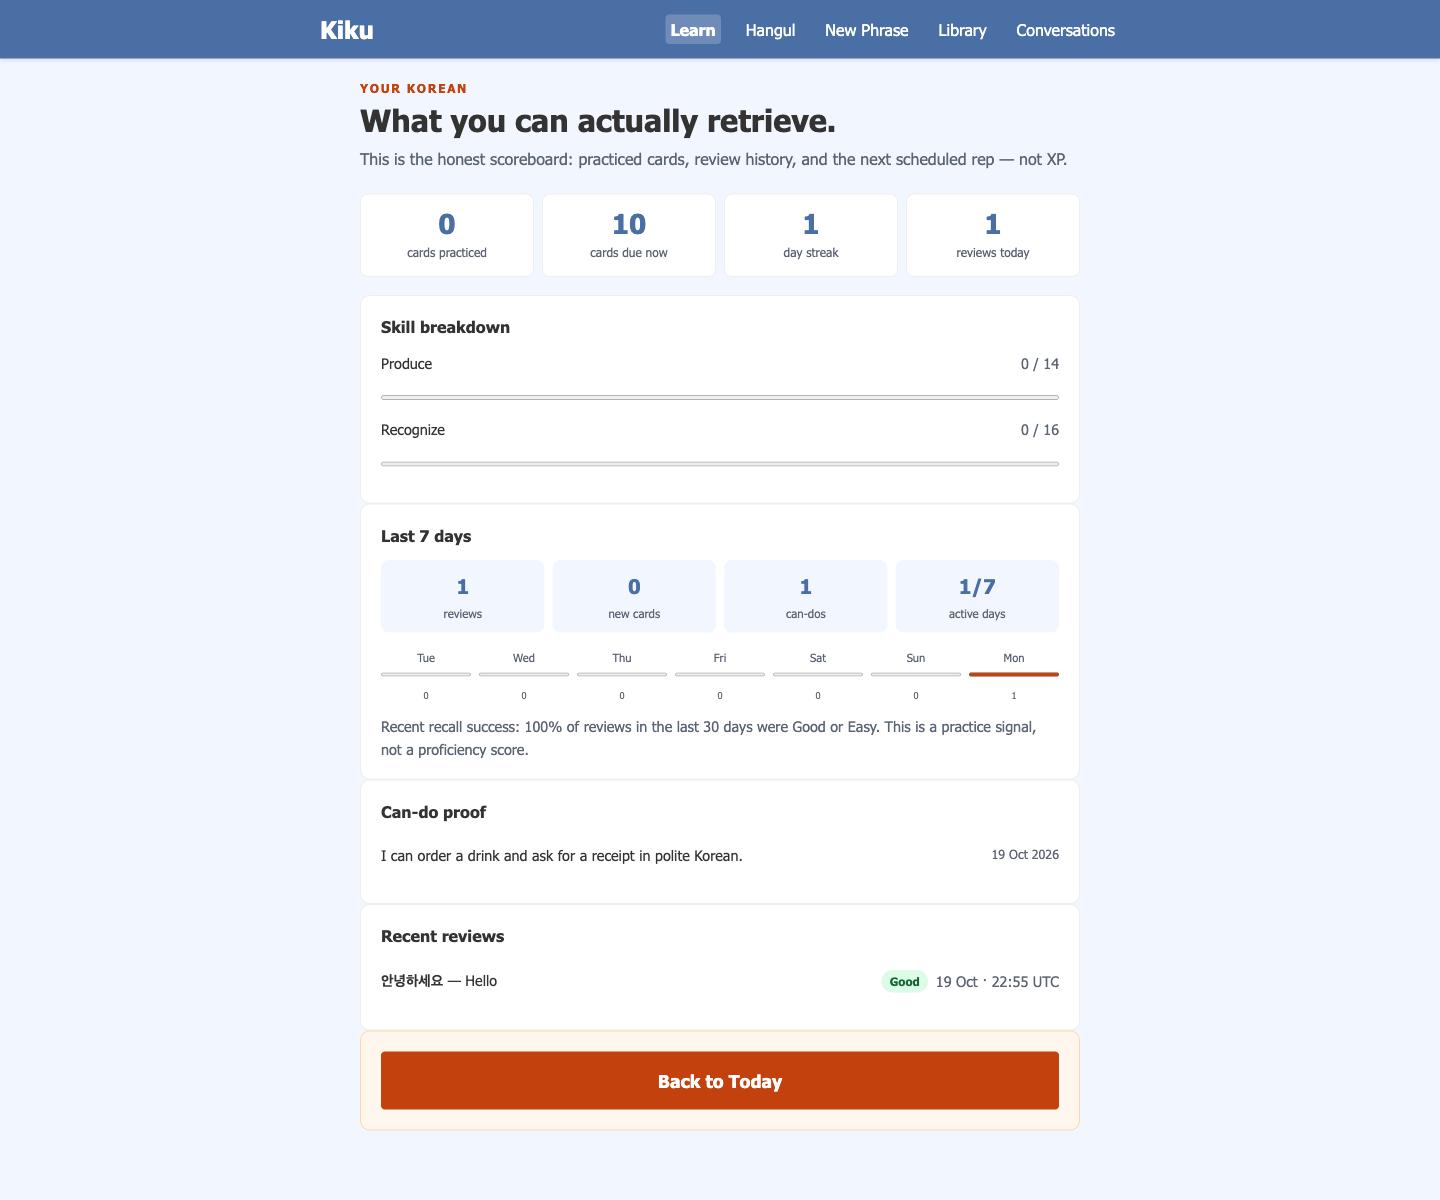
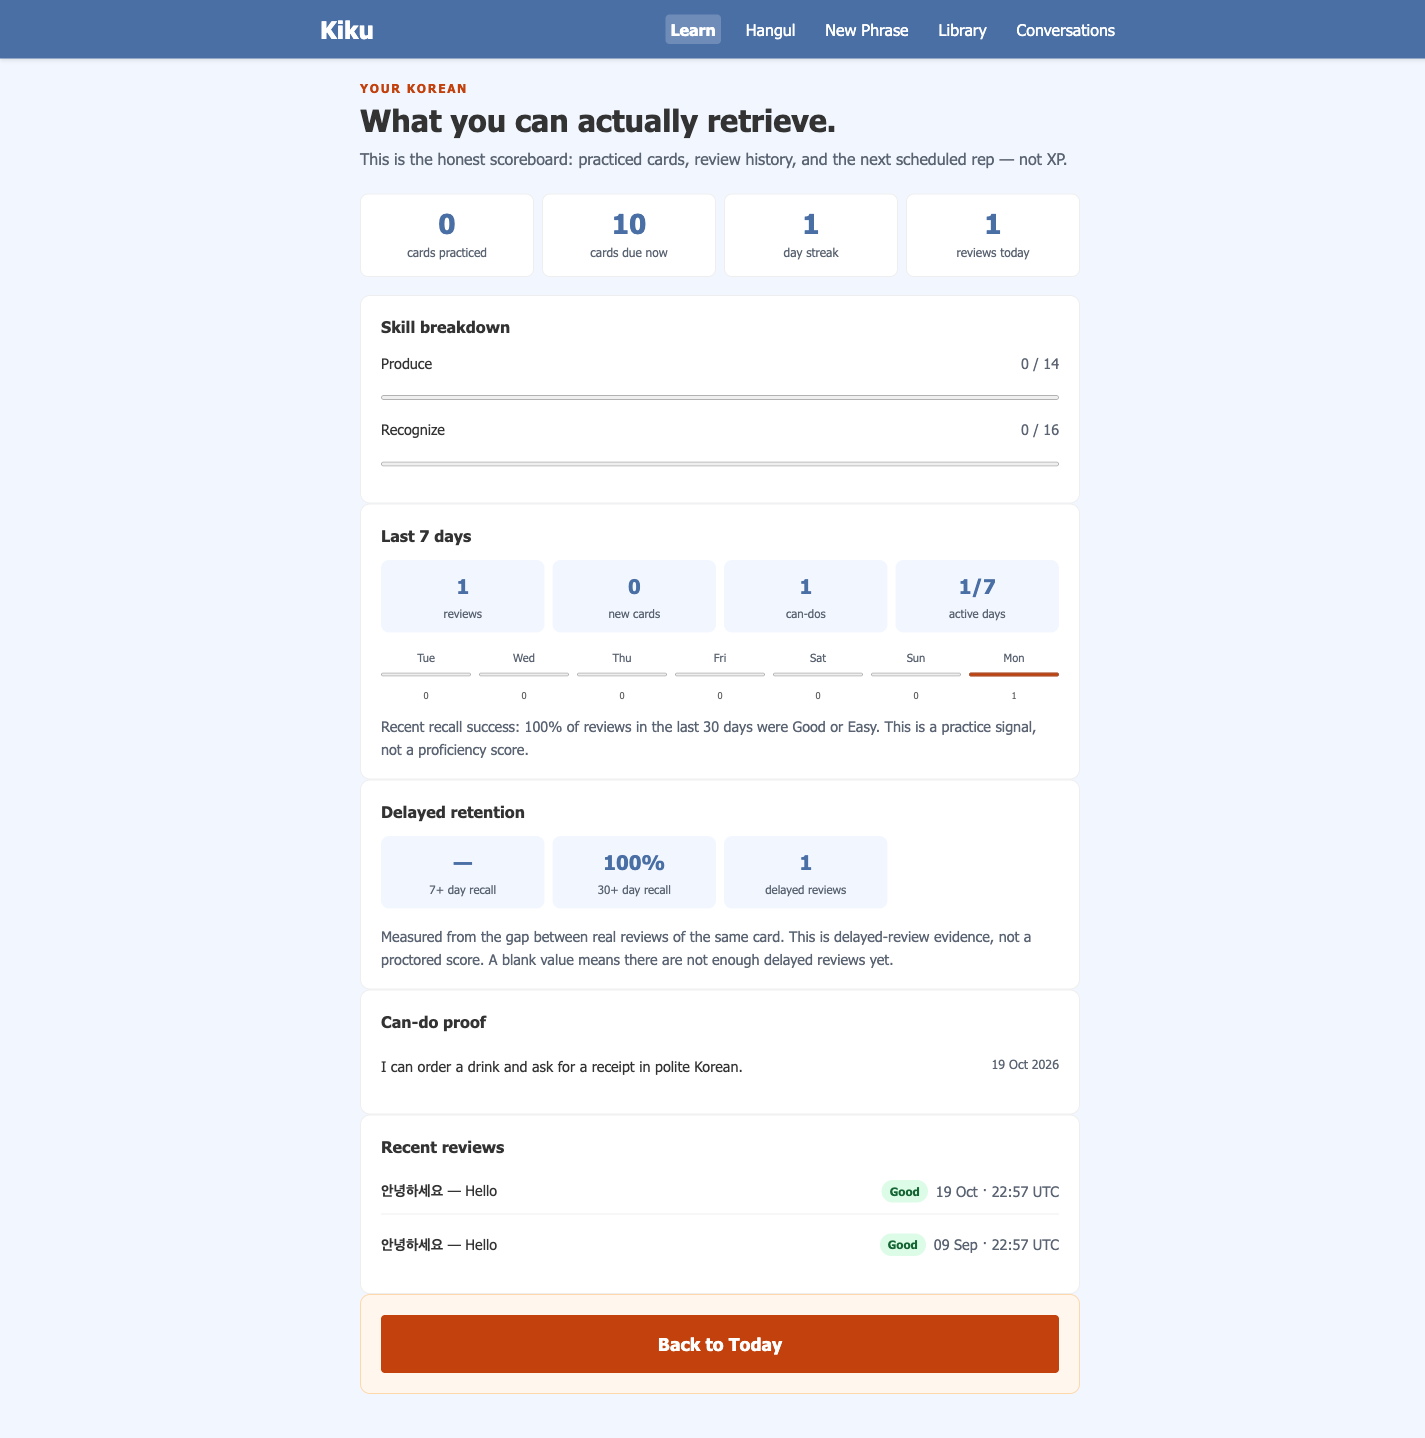
feat: add delayed-retention signal
Progress now reports 7+ day and 30+ day recall from the actual gap between reviews of the same card, with sample sizes and explicit copy that it is delayed-review evidence, not a proctored score.

This replaces the proxy-only recall view with a real retention signal. Adds tests and updates docs/screenshots. 178 tests pass.

diff --git a/app/templates/learn_progress.html b/app/templates/learn_progress.html
@@ -80,6 +80,29 @@
     {% endif %}
   </section>
 
+  <section class="learn-how" aria-labelledby="retention-heading">
+    <h3 id="retention-heading">Delayed retention</h3>
+    <div class="week-stats">
+      <div>
+        <b>{% if retention.day7.rate is not none %}{{ (retention.day7.rate * 100) | round | int }}%{% else %}—{% endif %}</b>
+        <span>7+ day recall</span>
+      </div>
+      <div>
+        <b>{% if retention.day30.rate is not none %}{{ (retention.day30.rate * 100) | round | int }}%{% else %}—{% endif %}</b>
+        <span>30+ day recall</span>
+      </div>
+      <div>
+        <b>{{ retention.total_delayed }}</b>
+        <span>delayed reviews</span>
+      </div>
+    </div>
+    <p class="learn-meta">
+      Measured from the gap between real reviews of the same card. This is
+      delayed-review evidence, not a proctored score. A blank value means there
+      are not enough delayed reviews yet.
+    </p>
+  </section>
+
   <section class="learn-how" aria-labelledby="can-do-heading">
     <h3 id="can-do-heading">Can-do proof</h3>
     {% if can_dos %}

diff --git a/tests/test_weekly.py b/tests/test_weekly.py
@@ -3,7 +3,7 @@
 from datetime import UTC, datetime, timedelta
 
 from app import db
-from app.learning.analytics import weekly_recap
+from app.learning.analytics import retention_signal, weekly_recap
 from app.learning.scheduler import new_review_card
 from app.learning.service import get_or_create_local_user
 from app.models import CanDoArtifact, Item, ReviewCard, ReviewLog
@@ -62,6 +62,38 @@ def test_weekly_recap_counts_reviews_days_and_recall(app):
         assert recap["has_data"] is True
 
 
+def test_retention_signal_uses_real_review_gaps(app):
+    now = datetime(2026, 10, 19, 12, 0, tzinfo=UTC)
+    with app.app_context():
+        user = get_or_create_local_user()
+        item = Item(
+            item_type="lexeme",
+            korean="테스트",
+            english="test",
+            level=1,
+            default_skill="recognize",
+        )
+        db.session.add(item)
+        db.session.commit()
+        card = new_review_card(user.id, item.id, "recognize")
+        db.session.add(card)
+        db.session.commit()
+
+        _log(user, card, now - timedelta(days=50), rating=3)
+        _log(user, card, now - timedelta(days=42), rating=1)
+        _log(user, card, now - timedelta(days=12), rating=3)
+        _log(user, card, now, rating=3)
+        db.session.commit()
+
+        signal = retention_signal(user.id)
+
+        assert signal["day7"]["n"] == 2
+        assert signal["day7"]["rate"] == 0.5
+        assert signal["day30"]["n"] == 1
+        assert signal["day30"]["rate"] == 1.0
+        assert signal["total_delayed"] == 3
+
+
 def test_progress_and_today_show_weekly_recap(client, app):
     now = datetime.now(UTC)
     client.get("/learn")
@@ -74,6 +106,8 @@ def test_progress_and_today_show_weekly_recap(client, app):
     progress = client.get("/learn/progress")
     assert b"Last 7 days" in progress.data
     assert b"Recent recall success" in progress.data
+    assert b"Delayed retention" in progress.data
+    assert b"7+ day recall" in progress.data
 
     today = client.get("/learn")
     assert b"This week:" in today.data

diff --git a/app/learning/analytics.py b/app/learning/analytics.py
@@ -26,6 +26,49 @@ def record_event(user_id, name, **props):
     return event
 
 
+def retention_signal(user_id):
+    """Delayed-review retention from real review gaps.
+
+    For each review, compare the gap from the previous review of the same card.
+    A 7+ day gap is evidence of delayed retention; a 30+ day gap is the longer
+    horizon. This is not a proctored test, and it is not a proficiency score.
+    """
+    logs = (
+        ReviewLog.query.filter(ReviewLog.user_id == user_id)
+        .order_by(ReviewLog.card_id.asc(), ReviewLog.reviewed_at.asc())
+        .all()
+    )
+
+    buckets = {"day7": [], "day30": []}
+    previous = {}
+    for log in logs:
+        reviewed = ensure_utc(log.reviewed_at)
+        prior = previous.get(log.card_id)
+        if prior is not None:
+            gap_days = (reviewed - prior).total_seconds() / 86400
+            if gap_days >= 30:
+                buckets["day30"].append(log.rating)
+            elif gap_days >= 7:
+                buckets["day7"].append(log.rating)
+        previous[log.card_id] = reviewed
+
+    def summarize(ratings):
+        if not ratings:
+            return {"rate": None, "n": 0}
+        return {
+            "rate": round(
+                sum(1 for rating in ratings if rating >= 3) / len(ratings), 3
+            ),
+            "n": len(ratings),
+        }
+
+    return {
+        "day7": summarize(buckets["day7"]),
+        "day30": summarize(buckets["day30"]),
+        "total_delayed": len(buckets["day7"]) + len(buckets["day30"]),
+    }
+
+
 def weekly_recap(user_id, now=None):
     """Last 7 learner-local days plus a 30-day recall-success estimate."""
     from app.learning.service import learner_timezone, local_day_bounds

diff --git a/app/learning/routes.py b/app/learning/routes.py
@@ -17,7 +17,11 @@ from sqlalchemy.orm.exc import StaleDataError
 from werkzeug.exceptions import BadRequest
 
 from app import db
-from app.learning.analytics import record_event, weekly_recap
+from app.learning.analytics import (
+    record_event,
+    retention_signal,
+    weekly_recap,
+)
 from app.learning.hangul_data import HANGUL_LESSONS
 from app.learning.scenes import (
     can_do_artifacts,
@@ -497,6 +501,7 @@ def progress():
         reviews=recent_reviews(user.id),
         can_dos=can_do_artifacts(user.id),
         weekly=weekly_recap(user.id),
+        retention=retention_signal(user.id),
     )
 
 

diff --git a/docs/ROADMAP.md b/docs/ROADMAP.md
@@ -76,7 +76,7 @@
 | P1-06 | Today / Review / You screens | Experience | Mobile-first; keyboard/IME; Korean `lang`; can-do artifact | [~] Today + Review done; You/can-do pending |
 | P1-07 | Onboarding + first spoken sentence | Experience | Goal/time/experience; local record/playback; account after win | [x] local onboarding + recording; real accounts pending |
 | P1-08 | Hangul bootcamp days 1–7 | Learning/Experience | Read-aloud checks; typing; batchim/liaison drills | [x] 7 lessons, 88 interactive drills; timed typing/fluency coaching next |
-| P1-09 | Can-do + progress model | Learning | Skill map, retention, artifacts; no XP hero metric | [~] skill map, 7-day activity, 30-day recall signal, dated can-do artifacts; true delayed-retention cohort still pending |
+| P1-09 | Can-do + progress model | Learning | Skill map, retention, artifacts; no XP hero metric | [x] skill map, 7-day activity, 7+/30+ delayed-retention signal, dated can-do artifacts; cohort dashboard later |
 | P1-10 | Alpha instrumentation | Quality | Activation, D1/D7, review latency, error rate | [~] Event table + `flask metrics` done; latency/error dashboards pending |
 
 **Exit criteria:** 20 alpha users; first spoken sentence < 2 min; 10-minute session end to end; p95 review < 200 ms; no orphan files; 30-day retention instrumentation live.
@@ -158,7 +158,7 @@ P1-09 ─> P3 (adaptive/beta)
 | P0-09 Rate limiter | Platform | done | Thread-safe bounded limiter, per-endpoint, `Retry-After` |
 | P0-10 Errors | Platform | done | 404/415/500, request IDs, no raw exception leakage |
 | P0-11 Headers/auth | Platform | done | CSP, frame/referrer headers, optional basic auth |
-| P0-12 Tests/CI | Quality | done | 177 tests, ruff, empty-DB migration gate |
+| P0-12 Tests/CI | Quality | done | 178 tests, ruff, empty-DB migration gate |
 | P1-02/04/05/06 vertical slice | Learning/Experience | done | Local user, 30 seed items, FSRS review, 10-new/day cap, Today/Review/Progress screens |
 | P1-07 Onboarding + first word | Experience | done | Goal/time/experience/timezone, first spoken 안녕하세요, local recording |
 | P1-08 Hangul days 1–7 | Learning/Experience | done | 7 lessons, 88 drills, mobile tables, Korean font fallback |
@@ -224,3 +224,4 @@ P1-09 ─> P3 (adaptive/beta)
 | 2026-10-19 | Voice answers in scenes: MediaRecorder → transcript → tolerant scene match → advance; typed Korean remains the fallback; failed attempts stored as SpeechAttempt evidence |
 | 2026-10-19 | Can-do proof: scene completion writes one dated artifact per scene, shown on progress and Today; replay updates rather than duplicates |
 | 2026-10-19 | Weekly recap: 7-day review activity, new cards, can-dos, active days, and a 30-day Good/Easy recall signal on progress and Today |
+| 2026-10-19 | Delayed-retention signal: 7+ and 30+ day recall calculated from real gaps between reviews of the same card, with sample sizes and honest copy |

diff --git a/README.md b/README.md
@@ -20,7 +20,7 @@ An application for learning Korean that includes both a command-line interface a
 - **Learn loop:** `/learn` shows what is due, `/learn/review` presents a retrieval card and grades it with FSRS-6, and `/learn/progress` shows practiced cards and recent reviews
 - **Mission scenes:** `/learn/scenes` has four scripted Korean roleplays (café, directions, pharmacy, workplace intro) with tolerant answer matching, hints, resumable progress, voice or typed answers, and a debrief that adds three chunks to the review deck
 - **Can-do proof:** completing a scene creates a dated “I can…” artifact on `/learn/progress` and surfaces the next mission on Today
-- **Weekly recap:** `/learn/progress` shows 7-day review activity, new cards, can-dos, active days, and a 30-day Good/Easy recall signal
+- **Weekly recap:** `/learn/progress` shows 7-day review activity, new cards, can-dos, active days, a 30-day Good/Easy recall signal, and 7+/30+ day delayed-retention rates
 - **Sound Gym:** `/learn/sound-gym` has minimal-pair perception drills and production prompts with local recording and transcript-based speech checks (not an accent grade; raw audio is not stored)
 - **Alpha metrics:** `flask metrics` prints activation, users with reviews, speech attempts, and D1/D7
 - **Starter deck:** `flask seed-content` adds 30 Korean items and creates review cards for the local learner

diff --git a/docs/PROJECT_STATUS.md b/docs/PROJECT_STATUS.md
@@ -19,11 +19,11 @@
 - **Sound Gym:** 11 minimal-pair perception drills, 8 production prompts, local-only recording, and transcript-based speech checks
 - **Speech evidence:** `SpeechAttempt` records what the model heard and a transcript-match score — explicitly not a pronunciation grade; raw audio is never stored
 - **Alpha instrumentation:** append-only `Event` table and `flask metrics` for activation, review users, speech attempts, D1/D7
-- **Progress view:** skill breakdown, last-7-days activity, recent recall signal, can-do proof, recent reviews, practiced-card count
+- **Progress view:** skill breakdown, last-7-days activity, 7+/30+ day delayed-retention signal, can-do proof, recent reviews, practiced-card count
 - **Local single-user mode:** a local `User` row scopes profile, review cards, and logs; real accounts are next
 - CLI translation/TTS tool (`hangul.py`)
 - `flask seed-content`, `flask media-audit`, `flask media-gc`
-- **177 automated tests**, ruff clean, CI with an empty-database migration gate
+- **178 automated tests**, ruff clean, CI with an empty-database migration gate
 
 ## What changed in Phase 0
 
